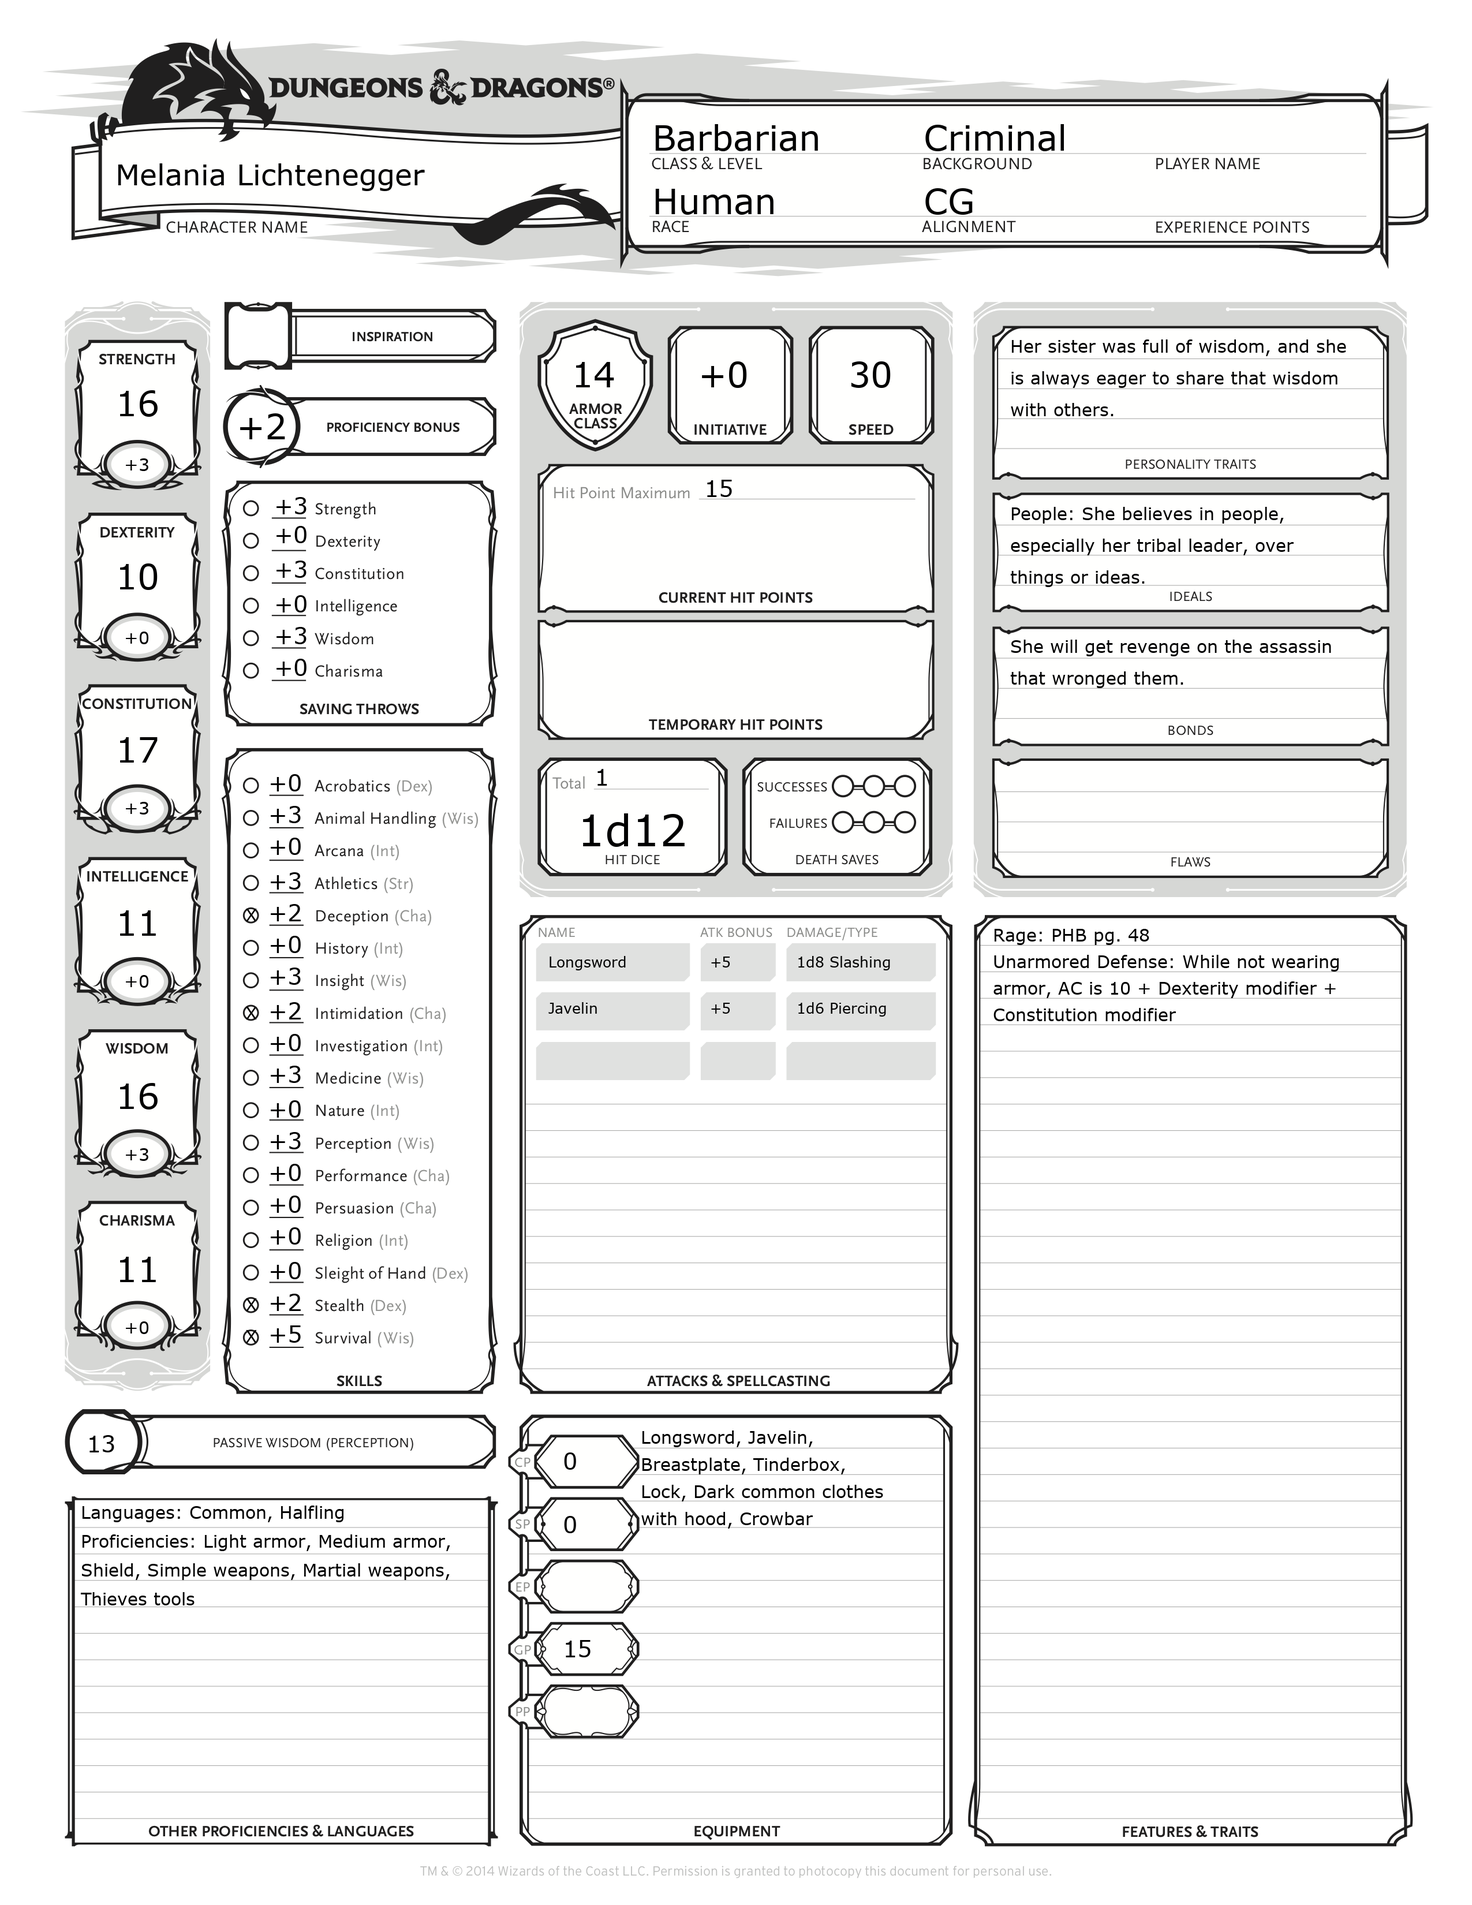
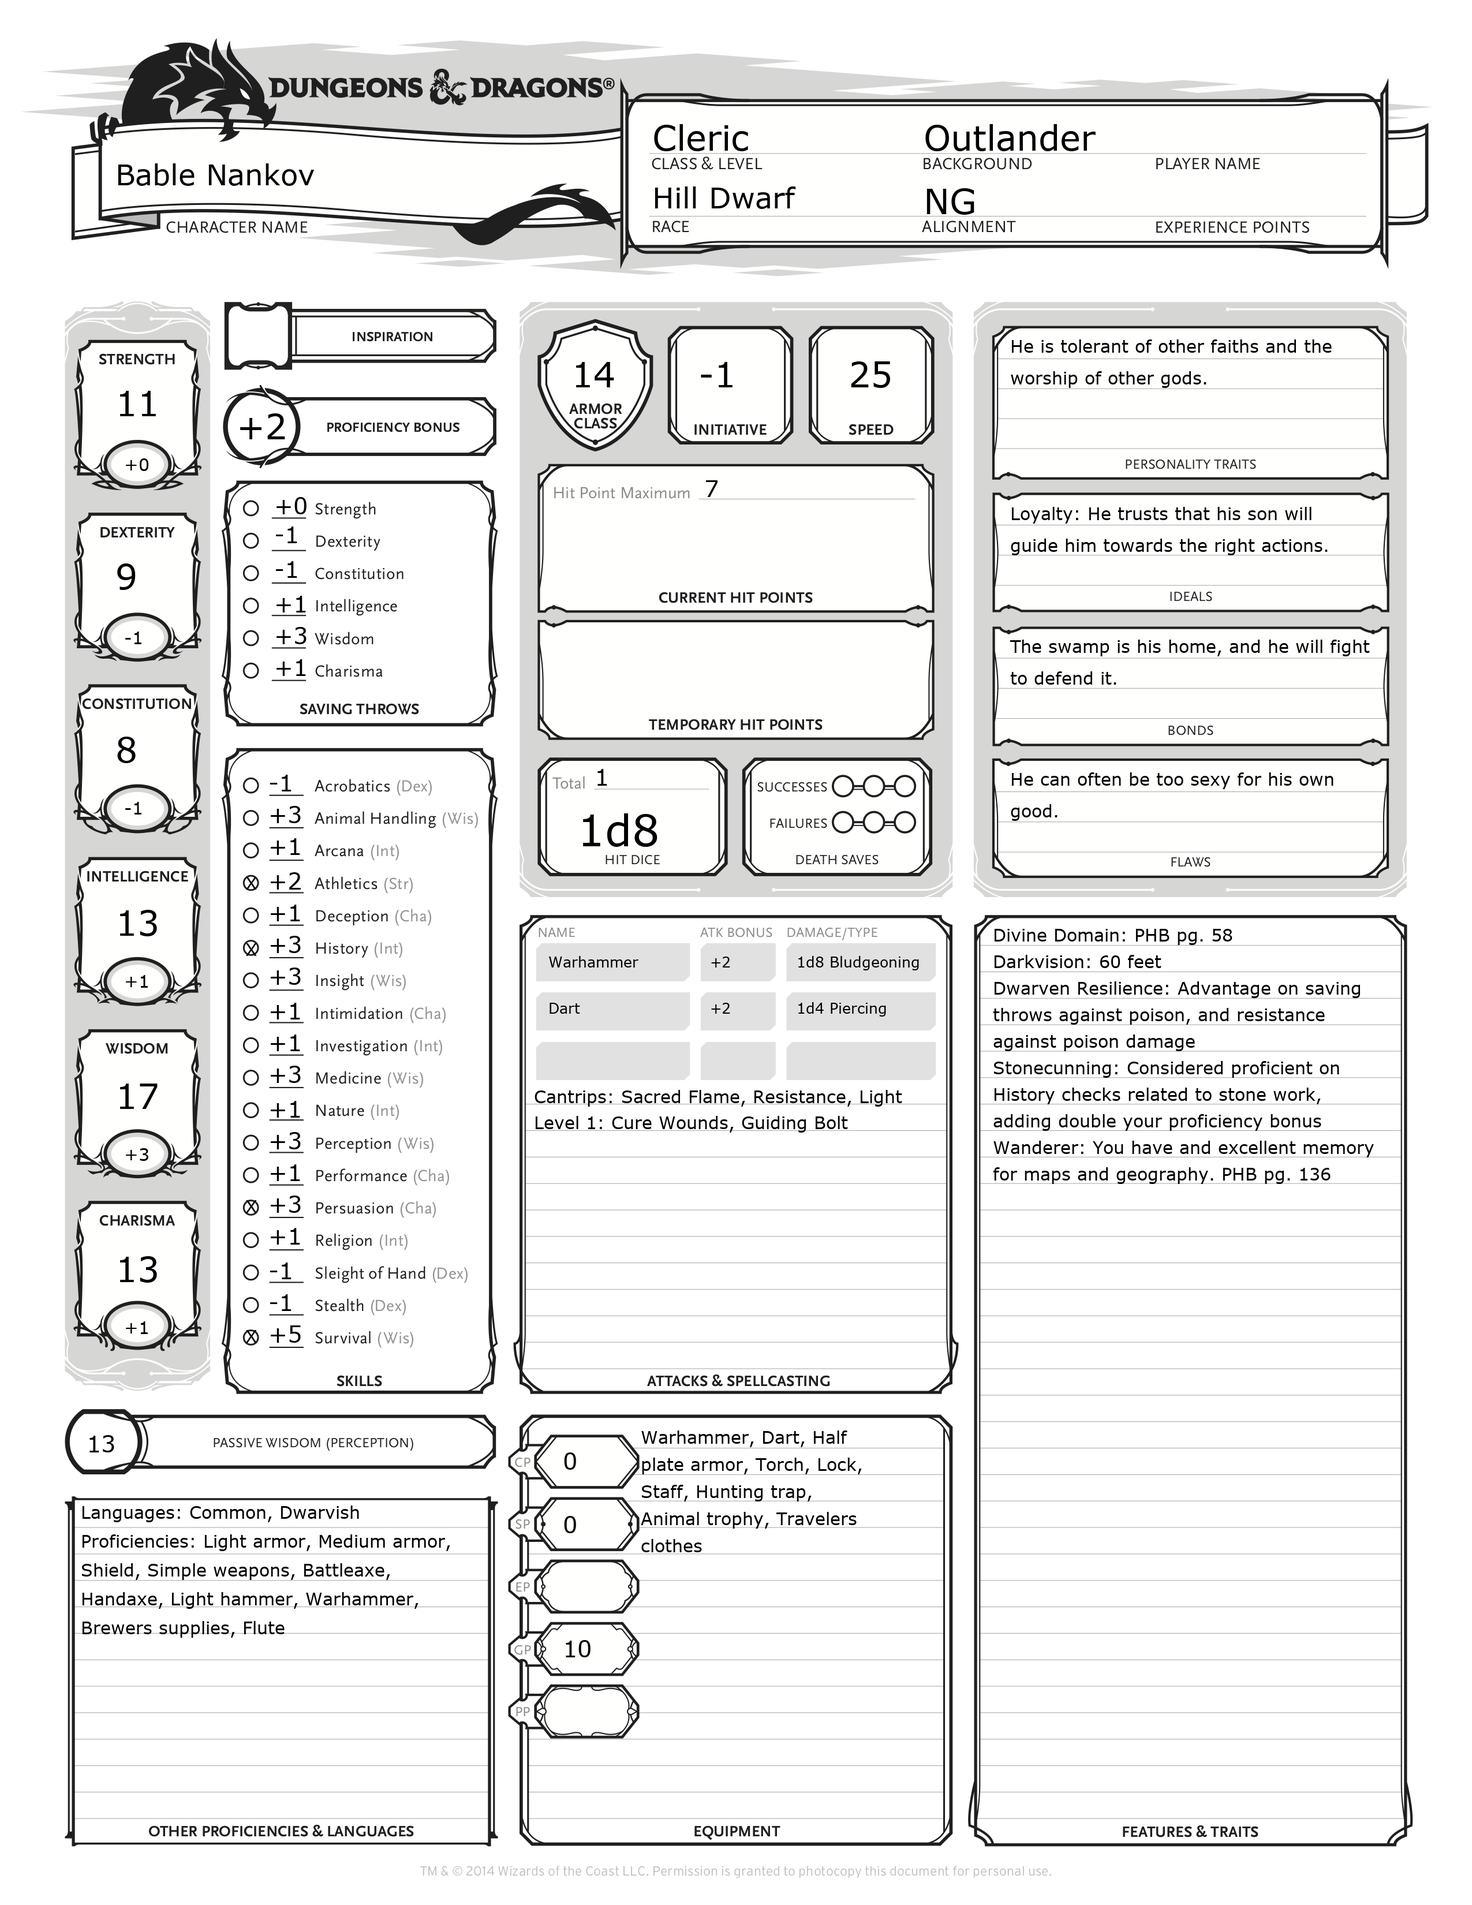
MVP, testing required. added flavor text to backgrounds, added background traits to traits.

diff --git a/backgrounds.py b/backgrounds.py
@@ -1,9 +1,16 @@
+import flavorText
+
+
 class Background:
 	def __init__(self):
 		pass
 	def backgroundModifiers(self, char):
 		for x in self.tools:	
 			char.proficiencies.append(x)
+		for x in self.traits:	
+			char.traits.append(x)
+		flavorText.rules['flaw'].extend(self.flaw)
+		flavorText.rules['bond'].extend(self.bond)
 			
 class Acolyte(Background):
 	name = "Acolyte"
@@ -12,6 +19,17 @@ class Acolyte(Background):
 	languageChoices = 2
 	equipment = ["Holy symbol", "Prayer book", "5 sticks of incense", "Vestments", "common clothes"]
 	gp = 15
+	traits = ["Shelter of the faithful: As an acolyte, you command the respect of people who share your faith. PHB pg. 127"]
+	bond = [
+		'#they.capitalize# would die to recover an ancient relic of #their# faith that was lost long ago.'
+		'#they.capitalize# work#s# for the good of the common people.',
+		'#they.capitalize# seek#s# to preserve an ancient text that #their# enemies consider heretical.'
+	]
+	flaw= [
+		'#they.capitalize# judge#s# others harshly, and #themselves# even more severly.',
+		'#their.capitalize# piety sometimes leads #them# to blindly trust those that profess faith in #their# god.',
+		'#they.capitalize# #is# inflexible in #their# thinking.'
+	]
 
 class Charlatan(Background):
 	#to add: con tools of choice
@@ -21,6 +39,17 @@ class Charlatan(Background):
 	tools = ["Disguise kit", "Forgery kit"]
 	equipment = ["Fine clothes", "disguise kit", "weighted dice"]
 	gp = 15
+	traits = ["False Identity: You have created a second identity that includes documentation, acquintances, and disguises. PHB pg. 128"]
+	bond = [
+		'#they.capitalize# owe#s# everything to their mentor, who is currently rotting in jail.',
+		'#they.capitalize# fleeced the wrong person, and #they# must now avoid that person for the rest of #their# life.',
+		'#they.capitalize# swindled a person who didn\'t deserve it. #they.capitalize# seek to atone for their misdeeds.'
+	]
+	flaw= [
+		'#they.capitalize# can\'t resist a pretty face.',
+		'#they.capitalize# #is# always in debt.',
+		'#they.capitalize# can\'t resist swindling people who are more powerful than #them#.'
+	]
 	
 class Criminal(Background):
 	#to add: gaming set proficiency
@@ -30,6 +59,17 @@ class Criminal(Background):
 	tools = ["Thieves tools"]
 	equipment = ["Dark common clothes with hood", "Crowbar"]
 	gp = 15
+	traits = ["Criminal Contact: You have a reliable and trustworthy liason to a network of criminals. PHB pg. 129"]
+	bond = [
+		'#they.capitalize# #is# trying to pay off an old debt.',
+		'#their.capitalize# ill-gotten gains go to support #their# family.',
+		'#they.capitalize# will become the greatest thief that ever lived.'
+	]
+	flaw= [
+		'When #they# see#s# somethign valuable, #they# can\'t think of anything but how to steal it.',
+		'#they.capitalize# #has# a tell that reveals when #they# #is# lying.',
+		'An innocent person is in prison for a crime #they# committed, and #they# #is# ok with that.'
+	]
 	
 class Entertainer(Background):
 	#to add: musical instrument choice, favor of admirer
@@ -39,7 +79,18 @@ class Entertainer(Background):
 	tools = ["Disguise kit", "Lute"]
 	equipment = ["Lute", "Lock of hair", "Costume"]
 	gp = 15
-
+	traits = ["By Popular Demand: You can always find a place to perform. PHB pg. 130"]
+	bond = [
+		'#they.capitalize# want#s# to be famous, whatever it takes.',
+		'#they.capitalize# idealize#s# a hero of the old tales, and measure#s# #their# deed\'s against that person\'s.',
+		'#they.capitalize# would do anything to prove #themselves# superior to #their# rival.'
+	]
+	flaw= [
+		'#they# once satirized a noble who still wants #their# head.',
+		'#they.capitalize# will do anything for fame and renown.',
+		'Scandal seems to follow #them# around.'
+	]
+	
 class FolkHero(Background):
 	#to add: specific artisan tools
 	name = "Folk Hero"
@@ -48,6 +99,17 @@ class FolkHero(Background):
 	tools = ["Artisans tools", "Land vehicles"]
 	equipment = ["Artisans tools", "Shovel", "Iron pot", "Common clothes"]
 	gp = 10
+	traits =  ["Rustic Hospitality: You fit in among the common folks with ease. PHB pg. 131"]
+	bond = [
+		'#they.capitalize# worked the land, #they# love#s# the land, #they# will protect the land.',
+		'#they.capitalize# protect those who cannot protect themselves.',
+		'#they.capitalize# #has# a family, but #they# #has# no idea where they are.'
+	]
+	flaw= [
+		'The tyrant who rules #their# land will stop at nothing to see #them# killed.',
+		'The people who knew #them# as a child know #their# shameful secret, so #they# can never return home.',
+		'Secretly, #they# believe#s# that things would be better if #they# ruled over the land.'
+	]
 	
 class GuildArtisan(Background):
 	#to add: artisans tools
@@ -57,6 +119,17 @@ class GuildArtisan(Background):
 	tools = ["Artisans tools", "Lute"]
 	equipment = ["Artisans tools", "Guild letter of introduction", "Travelers clothes"]
 	gp = 15
+	traits =  ["Guild Membership: You can rely on certain benefits that membership provides. PHB pg. 133"]
+	bond = [
+		'#they.capitalize# created a great work, but have yet to find someone worthy to receive it.',
+		'One day #they# will return to #their# guild to prove that #they# are the greatest artisan.',
+		'#they.capitalize# pursue wealth to win someone\'s love.'
+	]
+	flaw= [
+		'#they.capitalize# will do anything to get #their# hands on something rare or priceless.',
+		'No one must ever know that #they# stole money from the guild coffers.',
+		'#they.capitalize# are jealous of anyone who can outshine #their# handiwork.'
+	]
 	
 class Hermit(Background):
 	#to add: 
@@ -66,7 +139,18 @@ class Hermit(Background):
 	tools = ["Herbalism kit"]
 	equipment = ["Scroll case full of notes", "Winter blanket", "Common clothes", "Herbalism kit"]
 	gp = 5
-
+	traits =  ["Discovery: Your seclusion gave you access to a unique and powerful discovery. PHB pg. 134"]
+	bond = [
+		'#they.capitalize# entered seclusion to hide from the people that hunt #them#.',
+		'#they.capitalize# entereed seclusion because #they# loved someone that did not love #them# back.',
+		'their.capitalize# isolation brought #them# knowledge of an evil that only #they# can destroy.'
+	]
+	flaw= [
+		'Now that #they# #has# returned to the world, #they# enjoy#s# its comforts a bit too much.',
+		'#they.capitalize# #is# dogmatic in his thoughts and philosophy.',
+		'#they.capitalize# like#s# keeping secrets and won\'t share them with anyone else.'
+	]
+	
 class Noble(Background):
 	#to add: gaming set
 	name = "Noble"
@@ -75,6 +159,17 @@ class Noble(Background):
 	tools = ["Playing cards"]
 	equipment = ["Playing cards", "Fine clothes", "Signet ring", "Scroll of pedigree"]
 	gp = 25
+	traits = ["Position of Privilege: Due to your noble birth, people are inclined to think the best of you. PHB pg. 135"]
+	bond = [
+		'#they.capitalize# will face any challenge to win the approval of #their# family.',
+		'#they.capitalize# want#s# the common people to see #them# as a hero.',
+		'Nothing is more important to #them# than the members of #their# family.'
+	]
+	flaw= [
+		'#they.capitalize# believe#s# that everyone is beneath #them#.',
+		'#they.capitalize# hide#s# a shameful secret that could ruin #their family forever.',
+		'By #their# words and actions, #they# often bring shame to #their# family.'
+	]
 	
 class Outlander(Background):
 	#to add: musical instrument, animal trophy
@@ -84,6 +179,17 @@ class Outlander(Background):
 	tools = ["Flute"]
 	equipment = ["Staff", "Hunting trap", "Animal trophy", "Travelers clothes"]
 	gp = 10
+	traits = ["Wanderer: You have and excellent memory for maps and geography. PHB pg. 136"]
+	bond = [
+		'An injury to the unspoiled wilderness that is #their# home is an injury to #them#.',
+		'#they.capitalize# suffer#s# awful visions of impending disaster that #they# must prevent.',
+		'#they.capitalize# will bring terrible wrath on the evildoers who destroyed #their# homeland.'
+	]
+	flaw= [
+		'#they.capitalize# live#s# life to the fullest, throwing caution to the wind.',
+		'Violence is #their# answer to almost any question.',
+		'#they.capitalize# won\'t help those who can\'t help themselves. Its nature\'s way that the strong survive.'
+	]
 	
 class Sage(Background):
 	#to add: artisans tools
@@ -93,6 +199,17 @@ class Sage(Background):
 	tools = ["Artisans tools", "Lute"]
 	equipment = ["Black ink", "Quill", "Small knife", "Letter from deceased colleague", "Common clothes"]
 	gp = 10
+	traits = ["Researcher: You often know where to find information you do not know. PHB pg. 138"]
+	bond = [
+		'#they.capitalize# #has# an ancient text full of terrible secrets that must not fall into the wrong hands.',
+		'#they.capitalize# #has# been searching #their# whole life for the answer to a certain question.',
+		'#they.capitalize# sold #their# soul for knowledge.'
+	]
+	flaw= [
+		'#they.capitalize# speak#s# without thinking, often insulting others in the process.',
+		'#they.capitalize# can\'t keep #their# secrets, or anyone elses.',
+		'#they.capitalize# #is# easily distracted by the promise of information.'
+	]
 	
 class Sailor(Background):
 	#to add: trinket
@@ -102,6 +219,17 @@ class Sailor(Background):
 	tools = ["Navigators tools", "Water vehicles"]
 	equipment = ["Belaying pin", "50 feet of silk rope", "A small stone with a holei in the middle", "Common clothes"]
 	gp = 10
+	traits = ["Ship\'s Passage: When you need to, you can secure free passage on a sailing ship. PHB pg. 139"]
+	bond = [
+		'#they.capitalize# will always remember #their# first ship.',
+		'#they.capitalize# got cheated out of #their# fair share of the profits, and #they# want#s# #their# due.',
+		'Pirates killed #their# captain and crew. #they.capitalize# will have #their# revenge.'
+	]
+	flaw= [
+		'#they.capitalize# follow#s# orders, even if #they# think#s# they are wrong.',
+		'#they.capitalize# will say anything to avoid extra work.',
+		'Once #they# start#s# drinking, it\'s hard for #them# to stop.',
+	]
 	
 class Soldier(Background):
 	#to add: rank feature, trophy
@@ -111,6 +239,17 @@ class Soldier(Background):
 	tools = ["Dice"]
 	equipment = ["Insignia of rank", "Shard of blade from fallen enemy", "Bone dice", "Common clothes"]
 	gp = 10
+	traits = ["Military Rank: You have a military rank from you career as a soldier. PHB pg. 140"]
+	bond = [
+		'#they.capitalize# would do still lay down #their# life for the people #they# served with.',
+		'#their.capitalize# honor is #their# life.',
+		'#they.capitalize# fight for those who cannot fight for themselves.'
+	]
+	flaw= [
+		'The enemey #they# faced in battle still leaves #them# quivering in fear.',
+		'#they.capitalize# #has# little respect for anyone who isn\'t a proven warrior.',
+		'#they.capitalize# obey#s# the law, even if the law causes misery.'
+	]
 	
 class Urchin(Background):
 	#to add: parent token
@@ -120,4 +259,15 @@ class Urchin(Background):
 	tools = ["Disguise kit", "Thieves tools"]
 	equipment = ["Small knife", "Map of city", "Pet mouse", "Locket from parents", "Common clothes"]
 	gp = 10
+	traits = ["City Secrets: You know the secret patterns and flow to cities. PHB pg. 141"]
+	bond = [
+		'#they.capitalize# owe#s# #their# live to #goodPerson, who taught them to survive on the streets.',
+		'#they.capitalize# fought #their# way out of poverty by robbing #badPerson#, and #they# #is# wanted for it.',
+		'#they.capitalize# give#s# to the poor to prevent others from going through what #they endured.'
+	]
+	flaw= [
+		'#they.capitalize# would rather kill someone in their sleep than in a fair fight.',
+		'If #they# #is# outnumbered, #they# will run away from a fight.',
+		'#they.capitalize# will never fully trust anyone but #themselves#.'
+	]
 	

diff --git a/flavorText.py b/flavorText.py
@@ -13,7 +13,7 @@ rules = {
 	'personality': [
 		'#they.capitalize# look#s# up to #goodPerson#, and constatly refers to that person\'s deeds and example.',
 		'#they.capitalize# #is# #tolerant# of other faiths and the worship of other gods.',
-		'#they.capitalize# #has# spent so long in the #place# that #they# have little understanding of anything outside of it.',
+		'#they.capitalize# #has# spent so long in the #place# that #they# can\'t understand anything outside of it.',
 		'#they.capitalize# #is# a born #trade#, never passing up an opportunity to show off #their# skill.',
 		'#they.capitalize# #is# always #emotion#, often — or especially — when the situation doesn\'t call for it.',
 		'#they.capitalize# #is# #slow# to trust',
@@ -23,15 +23,15 @@ rules = {
 		'#they.capitalize# can\'t get along with people who don\'t #love# #interest#.',
 		'#they.capitalize# like#s# to talk at length about #interest# to anyone who will listen.',
 		'#goodPerson.capitalize# was full of wisdom, and #they# #is# always eager to share that wisdom with others.',
-		'Everyone around #them# thinks #they# are #virtue#.'
+		'Everyone around #them# thinks #they# #is# #virtue#.'
 	],
 	'ideal': [
-		'Loyalty: #they.capitalize# trust#s# that #goodPerson# will guide them towards the right actions.',
+		'Loyalty: #they.capitalize# trust#s# that #goodPerson# will guide #them# towards the right actions.',
 		'Aspiration: #they.capitalize# seek#s# to prove #themselves# to #goodPerson# through #their# deeds.',
 		'Responsibilty: #they.capitalize# will defend the #place#, no matter the cost.',
 		'Aspiration: #they.capitalize# will be the best #trade# the world has ever known.',
 		'People: #they.capitalize# believe#s# in people, especially #goodPerson#, over things or ideas.',
-		'Beauty: #they.capitalize# will share their passion for #interest# with the whole world.',
+		'Beauty: #they.capitalize# will share #their# passion for #interest# with the whole world.',
 		
 	],
 	'bond':[
@@ -39,7 +39,7 @@ rules = {
 		'The #place# #they# grew up is the most important place in the whole world.',
 		'Everything #they# know#s# about being a #trade#, #they# learned from #goodPerson#.',
 		'Everything #they# #is# doing is to try to earn the love of #goodPerson#.',
-		'One day, #they# will return to their home #place# to show everyone how great of a #trade# #they# #is#.',
+		'One day, #they# will return to #their# home #place# to show everyone how great of a #trade# #they# #is#.',
 		'#they.capitalize# will get revenge on #badPerson# that wronged #them#.',
 		'No one is mor important than the other members of #their# #group#.',
 		'#they.capitalize# still can\'t seem to trust the other members of #their# #group#.',
@@ -53,12 +53,20 @@ rules = {
 		'#they.capitalize# work#s# to preserve the dying traditions of the #group#.',
 		'#they.capitalize# #love##s# #goodPerson#.',
 		'#they.capitalize# #love##s# #badPerson#.',
-		'#they.capitalize #is# so #proud# of #goodPerson#.',
+		'#they.capitalize# #is# so #proud# of #goodPerson#.',
 		'People come and go, but #their# #place# will always be there.',
 		'#they.capitalize# will always remember the #place#.',
 		'#they.capitalize# will get #their# revenge on #badPerson#s. All of them.',
 		'The #place# is #their# home, and #they# will fight to defend it.',
-		'#they.capitalize# owe a life debt to #goodPerson#.',
+		'#they.capitalize# owe#s# a life debt to #goodPerson#.',
+	],
+	'flaw': [
+			'#they.capitalize# put#s# too much trust in the people in charge of the #group#.',
+			'#they.capitalize# can often be too #virtue# for #their# own good.',
+			'#they.capitalize# #is# obsessed with #interest# to the detriment of everything else.',
+			'#they.capitalize# can\'t resist a #virtue# person.',
+			'#they.capitalize# spend#s# all of #their# coin on #interest#.',
+			
 	],
 	'tolerant': ['tolerant', 'intolerant'],
 	'slow': ['slow', 'fast'],
@@ -190,6 +198,11 @@ def bond():
 	grammar = tracery.Grammar(rules)
 	grammar.add_modifiers(base_english)
 	return grammar.flatten("#bond#")
+	
+def flaw():
+	grammar = tracery.Grammar(rules)
+	grammar.add_modifiers(base_english)
+	return grammar.flatten("#flaw#")
 
 
 

diff --git a/classes.py b/classes.py
@@ -167,7 +167,7 @@ class Fighter(CharClass):
 		self.trade = ['wrestler', 'drinker', 'dice player']
 		self.ideal = [
 			'Protector: #they.capitalize# will fight to protect the #place# #they# call#s# home.',
-			'Conquest: #they.capitalize# fight to bring glory to the realm.'
+			'Conquest: #they.capitalize# fight#s# to bring glory to the realm.'
 		]
 		
 	def classAlignment(self):
@@ -223,7 +223,7 @@ class Paladin(CharClass):
 		self.trade = ['leader']
 		self.ideal = [
 			'Protector: #they.capitalize# will fight to protect the #place# #they# call#s# home.',
-			'Conquest: #they.capitalize# fight to bring glory to #their# diety.'
+			'Conquest: #they.capitalize# fight#s# to bring glory to #their# diety.'
 		]
 		
 	def classAlignment(self):

diff --git a/writer.py b/writer.py
@@ -72,7 +72,7 @@ def writeClass(image, characterClass):
 def writeRace(image, race):
 	img = image
 	draw = ImageDraw.Draw(img)
-	font = ImageFont.truetype(r"C:\Users\wiggi\OneDrive\Documents\CharacterSheetBot\Verdana.ttf",60)
+	font = ImageFont.truetype(r"C:\Users\wiggi\OneDrive\Documents\CharacterSheetBot\Verdana.ttf",50)
 	draw.text((1130, 310), race,(0,0,0), font=font)
 	
 def writeHP(image, hp):

diff --git a/Character.py b/Character.py
@@ -371,4 +371,4 @@ class Character:
 		self.personality = flavorText.personalityTrait()
 		self.ideal = flavorText.ideal()
 		self.bond = flavorText.bond()
-		self.flaw = " "
+		self.flaw = flavorText.flaw()
